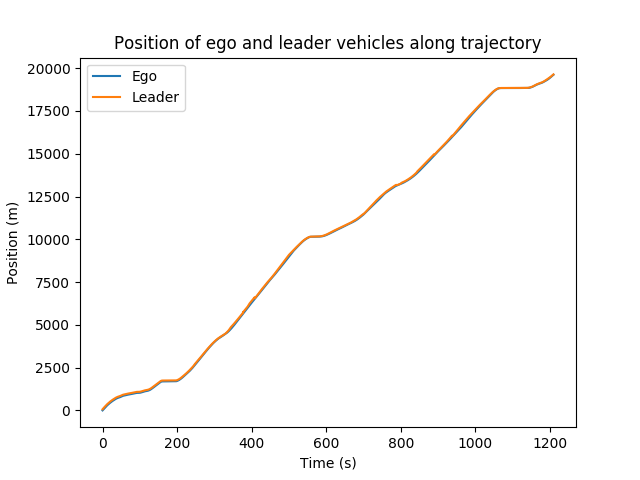
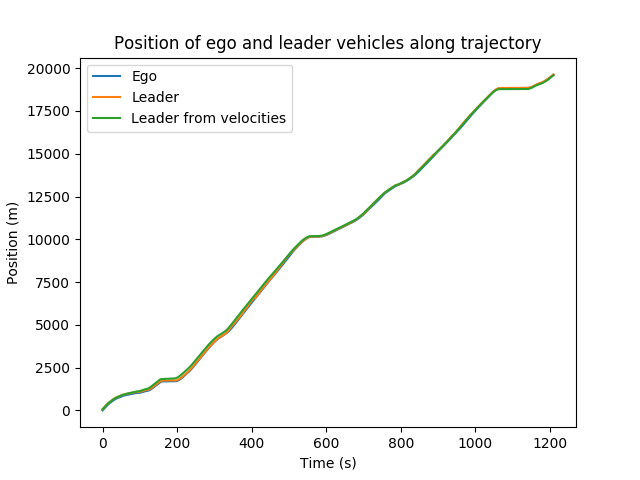
Ignore lane changes by getting positions from speeds

diff --git a/env/trajectory_env.py b/env/trajectory_env.py
@@ -22,6 +22,10 @@ class TrajectoryEnv(object):
         self.max_headway = config.get('max_headway', 70)  # TODO maybe do both max time headway for high speeds and space headway for low speeds
 
         self.time_step, self.leader_positions, self.leader_speeds = load_data()
+        # for now get positions from velocities to ignore in-lane-changes
+        self.leader_positions = [self.leader_positions[0]]
+        for vel in self.leader_speeds[:-1]:
+            positions_from_velocity.append(self.leader_positions[-1] + vel * self.time_step)
         assert(len(self.leader_positions) == len(self.leader_speeds))
 
         self.action_space = Box(low=-1, high=1, shape=(1,), dtype=np.float32)
@@ -68,16 +72,6 @@ class TrajectoryEnv(object):
     def step(self, action):
         self.env_step += 1
         self.traj_idx += 1
-
-        # handle lane changes
-        # if last position of AV crashes with new position of leader, teleport AV backwards
-        lpos = self.leader_positions[self.traj_idx]
-        last_lpos = self.leader_positions[self.traj_idx - 1]
-        if lpos < last_lpos:
-            delta_pos = lpos - last_lpos
-            self.av['pos'] += delta_pos
-            for idm in self.idm_followers:
-                idm['pos'] += delta_pos
 
         # get av accel
         action = float(action)

diff --git a/env/data_loader.py b/env/data_loader.py
@@ -34,7 +34,7 @@ def load_data():
     time_step = df['Time'][1] - df['Time'][0]
     dist_from_start = 0
     leader_positions = [space_gaps[0]]
-    leader_velocities = (velocities + relative_velocities) / 3.6  # convert km/h to m/s
+    leader_velocities = np.maximum((velocities + relative_velocities) / 3.6, 0)  # convert km/h to m/s
 
     for i in range(1, len(times)):
         # keep track of driving distance from start
@@ -71,7 +71,10 @@ if __name__ == '__main__':
     total_time = times[-1] - times[0]
     print(f'Total trajectory time: {round(total_time)}s')
 
-    time_step, leader_positions, _ = load_data()
+    time_step, leader_positions, leader_velocities = load_data()
+    positions_from_velocity = [leader_positions[0]]
+    for vel in leader_velocities[:-1]:
+        positions_from_velocity.append(positions_from_velocity[-1] + vel * 0.1)
 
     # plot ego and leader velocities
     plt.figure()
@@ -104,6 +107,7 @@ if __name__ == '__main__':
     plt.figure()
     plt.plot(times - times[0], leader_positions - space_gaps, label='Ego')
     plt.plot(times - times[0], leader_positions, label='Leader')
+    plt.plot(times - times[0], positions_from_velocity, label='Leader from velocities')
     plt.xlabel('Time (s)')
     plt.ylabel('Position (m)')
     plt.legend()
